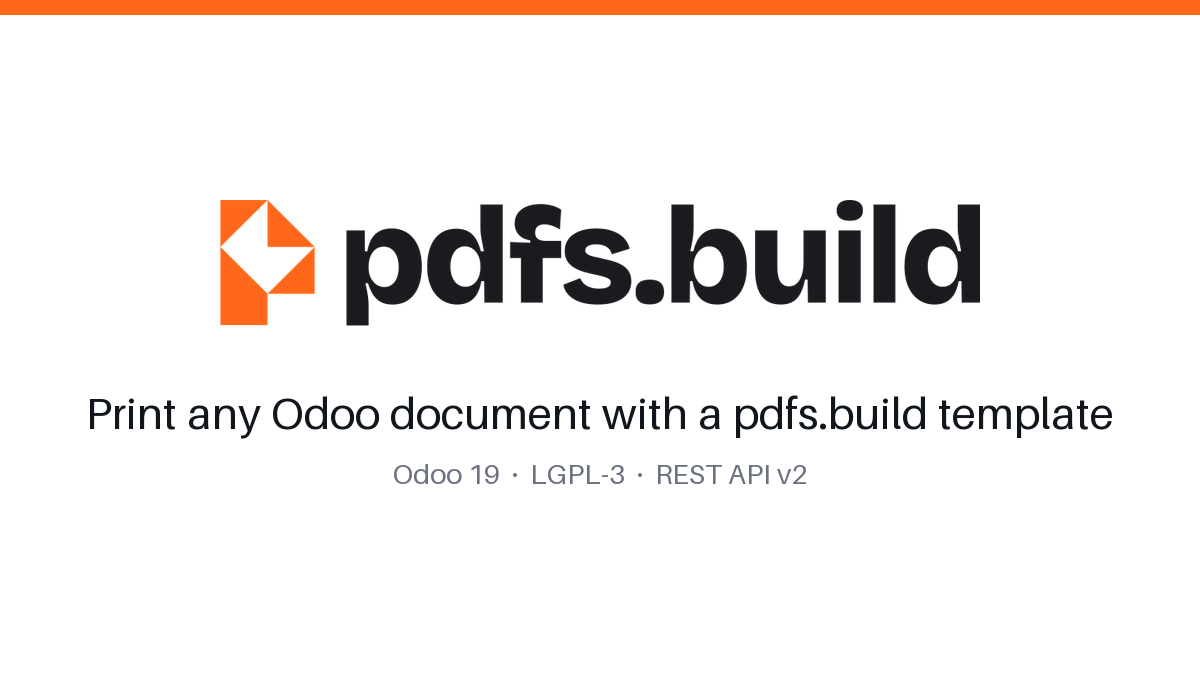
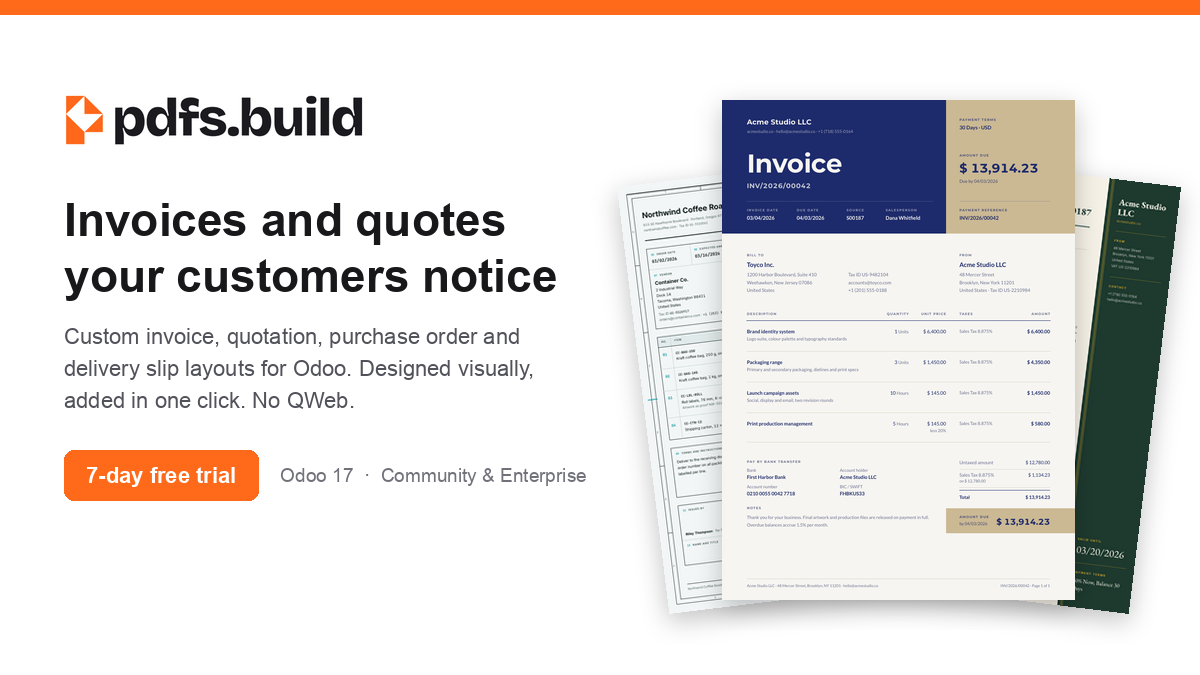
docs(store): listing led by the designs and the free trial, version 17.0.1.3.0
Renamed to "Invoice & Report Designer by pdfs.build" with a summary naming the
documents people search for. The banner and page show the gallery's Odoo
designs (Stub Band, Gilt Edge, Datum Sheet, Dock Ticket) instead of an
unfinished sample invoice and a report form full of Python; the page leads
with the no-code path and a free-trial button, and its features are split for
the business and for administrators.

Changed region(s): [[0.0308, 0.1244, 0.9867, 0.9333], [0.0308, 0.1244, 0.3083, 0.2178]]

diff --git a/pdfs_build/static/description/index.html b/pdfs_build/static/description/index.html
@@ -1,84 +1,105 @@
 <section class="oe_container">
     <div class="oe_row oe_spaced">
-        <h2 class="oe_slogan">pdfs.build PDF Templates</h2>
-        <h3 class="oe_slogan">Print any Odoo document with a template designed on pdfs.build.</h3>
+        <h2 class="oe_slogan">Invoices and quotes your customers notice</h2>
+        <h3 class="oe_slogan">
+            Custom invoice, quotation, purchase order and delivery slip layouts for Odoo,
+            designed visually on pdfs.build. No QWeb, no XML.
+        </h3>
+        <p class="oe_mt16 text-center">
+            <a class="btn btn-primary btn-lg" href="https://app.pdfs.build/signup?plan=pro&amp;interval=monthly" target="_blank">Start the 7-day free trial</a>
+        </p>
+        <p class="text-center text-muted">API included in the trial. Plans from $19 a month after it.</p>
         <div class="oe_span6">
-            <img src="screenshot_print.png" class="oe_picture oe_screenshot" alt="The report in a Sales Order's Print menu"/>
+            <img src="design_invoice.png" class="oe_picture oe_screenshot" alt="An Odoo invoice printed with the Stub Band design"/>
         </div>
         <div class="oe_span6">
-            <img src="screenshot_pdf.png" class="oe_picture oe_screenshot" alt="The quotation rendered by pdfs.build"/>
+            <img src="screenshot_print.png" class="oe_picture oe_screenshot" alt="The same invoice's Print menu in Odoo"/>
+            <p class="oe_mt16">
+                Your design replaces Odoo's own <b>Invoice PDF</b>: the Print button, <b>Send</b> by email,
+                the customer portal and the PDF stored on the invoice all use it. Odoo's e-invoice XML
+                (Factur-X, UBL) is still embedded.
+            </p>
         </div>
     </div>
 </section>
 
 <section class="oe_container oe_dark">
     <div class="oe_row">
-        <h2 class="oe_slogan">Design once, print everywhere</h2>
+        <h2 class="oe_slogan">Ready-made designs, one click, no mapping</h2>
+        <div class="oe_span12">
+            <img src="designs_for_odoo.png" class="oe_picture" alt="Invoice, quotation, purchase order and delivery slip designs for Odoo"/>
+        </div>
         <div class="oe_span6">
             <p class="oe_mt32">
-                pdfs.build is a PDF template engine with an AI-assisted designer. Describe the
-                document you want, refine it with live preview, and it comes with a JSON schema
-                of the data it needs. This module connects those templates to Odoo.
-            </p>
-            <p>
-                A report maps an Odoo model to a template with a short Python expression,
-                then appears in the record's <b>Print</b> menu, in email templates and
-                wherever Odoo prints PDFs. Printing several records merges them.
+                <b>Designs for Odoo</b> lists invoice, quotation, purchase order and delivery slip
+                designs with previews. Click one: it is copied into your pdfs.build organization and its
+                report is created, already reading the right Odoo fields. It takes your company logo
+                and document-layout colors from Odoo's settings.
             </p>
         </div>
         <div class="oe_span6">
-            <img src="screenshot_template_form.png" class="oe_picture oe_screenshot" alt="A synced template with its data fields"/>
+            <p class="oe_mt32">
+                Two designs for each document type, from bold to conservative, and more on
+                <a href="https://pdfs.build/templates/?category=odoo" target="_blank">pdfs.build/templates</a>.
+                Want something else? Describe the document to the pdfs.build AI designer, or edit any
+                design visually with live preview, then print it from Odoo.
+            </p>
         </div>
     </div>
 </section>
 
 <section class="oe_container">
     <div class="oe_row">
-        <h2 class="oe_slogan">Three steps</h2>
+        <h2 class="oe_slogan">Up and running in three steps</h2>
         <div class="oe_span4">
             <h4>1. Connect</h4>
-            <p>Paste your pdfs.build API key and organization ID in Settings and sync the published templates. Archive the ones Odoo does not need.</p>
+            <p>
+                <a href="https://app.pdfs.build/signup?plan=pro&amp;interval=monthly" target="_blank">Start the free trial</a>,
+                create an API key, and paste it with your organization ID in <b>pdfs.build &gt; Settings</b>.
+            </p>
         </div>
         <div class="oe_span4">
-            <h4>2. Map</h4>
-            <p>Click <b>Designs for Odoo</b> and add an invoice, quotation, purchase order or delivery slip design: it is copied into your organization, synced, and its report is created with the data expression already written. Or create a report for any template of yours and finish the pre-generated expression. Preview the data and the PDF, then take over Odoo's own report.</p>
+            <h4>2. Pick a design</h4>
+            <p>Add one from <b>Designs for Odoo</b>, or sync your own templates. Preview the PDF on a real record before going live.</p>
         </div>
         <div class="oe_span4">
             <h4>3. Print</h4>
-            <p>The report is in the model's Print menu. PDFs are rendered by pdfs.build in a few seconds and can be saved as attachments.</p>
-        </div>
-    </div>
-    <div class="oe_row">
-        <div class="oe_span12">
-            <img src="screenshot_report.png" class="oe_picture oe_screenshot" alt="The report form with its data expression and data preview"/>
+            <p>Use it for Odoo's Invoices or Quotation / Order report, or add it as a new entry in the Print menu.</p>
         </div>
     </div>
 </section>
 
 <section class="oe_container oe_dark">
-    <div class="oe_row">
-        <h2 class="oe_slogan">Both sides of the mapping, in the form</h2>
-        <div class="oe_span6">
-            <img src="screenshot_template_fields.png" class="oe_picture oe_screenshot" alt="Template Fields tab: what the template expects"/>
-            <p class="oe_mt16">What the template expects: every field with its type, whether it is required, and its description.</p>
-        </div>
-        <div class="oe_span6">
-            <img src="screenshot_odoo_fields.png" class="oe_picture oe_screenshot" alt="Odoo Fields tab: the model's fields with labels"/>
-            <p class="oe_mt16">The Odoo model's fields with their labels, types and related models, so nobody has to guess a technical field name.</p>
-        </div>
-    </div>
-</section>
-
-<section class="oe_container">
     <div class="oe_row">
         <h2 class="oe_slogan">Preview in Odoo, take over Odoo's own reports</h2>
         <div class="oe_span6">
             <img src="screenshot_preview.png" class="oe_picture oe_screenshot" alt="The rendered PDF previewed inside Odoo"/>
-            <p class="oe_mt16"><b>Preview PDF</b> renders the record you pick and shows the result in Odoo's own PDF viewer, with download and print in its toolbar.</p>
+            <p class="oe_mt16"><b>Preview PDF</b> renders the record you pick and shows it in Odoo's PDF viewer.</p>
         </div>
         <div class="oe_span6">
             <img src="screenshot_takeover.png" class="oe_picture oe_screenshot" alt="Picking one of Odoo's own reports to render with the template"/>
-            <p class="oe_mt16"><b>Use for Existing Report</b> hands Invoices, Quotation / Order or any other Odoo PDF report to a template. Emails, portal downloads and stored invoice PDFs follow.</p>
+            <p class="oe_mt16"><b>Use for Existing Report</b> hands Invoices, Quotation / Order or any other Odoo PDF report to a design. Clear it to go back.</p>
+        </div>
+    </div>
+</section>
+
+<section class="oe_container">
+    <div class="oe_row">
+        <h2 class="oe_slogan">Your own templates, mapped in the form</h2>
+        <div class="oe_span12">
+            <p>
+                For a template of your own, the report's data is written for you from the template's fields:
+                everything that matches an Odoo field, lines and nested records included, is filled in.
+                The rest is a short Python expression, with both sides listed next to it.
+            </p>
+        </div>
+        <div class="oe_span6">
+            <img src="screenshot_template_fields.png" class="oe_picture oe_screenshot" alt="Template Fields tab: what the template expects"/>
+            <p class="oe_mt16">What the template expects: every field with its type and description.</p>
+        </div>
+        <div class="oe_span6">
+            <img src="screenshot_odoo_fields.png" class="oe_picture oe_screenshot" alt="Odoo Fields tab: the model's fields with labels"/>
+            <p class="oe_mt16">The Odoo model's fields with their labels, so nobody guesses a technical name.</p>
         </div>
     </div>
 </section>
@@ -87,23 +108,25 @@
     <div class="oe_row">
         <h2 class="oe_slogan">Features</h2>
         <div class="oe_span6">
+            <h4>For your business</h4>
             <ul>
-                <li>Templates synced from your pdfs.build organization, with their JSON schema and sample data; archive the ones Odoo does not need</li>
-                <li>Data expression written from the schema: every field that matches one of the model's (nested records and lines included) is read automatically, dates, amounts, taxes and images formatted; only fields Odoo does not have are left to fill in</li>
-                <li><b>Designs for Odoo</b>: ready-made invoice, quotation, purchase order and delivery slip designs, added from inside Odoo in one click with their report created, no mapping at all; they take the company logo and document-layout colours from Odoo's settings</li>
-                <li>Preview Data and an in-app PDF preview on every report</li>
-                <li>Replace Odoo's own Invoices or Quotation / Order PDF with a template: email attachments, portal downloads and stored invoice PDFs follow, and Odoo's e-invoice XML embedding still applies</li>
-                <li>Reports in the Print menu, in email templates, and merged when printing several records</li>
-                <li>Save as attachment and reload from attachment, like any Odoo report</li>
-                <li>Pin a template version or channel per report</li>
+                <li>Invoices, quotations, purchase orders, delivery slips, or any other Odoo document</li>
+                <li>Each document in its customer's language: translated fields, dates and amounts</li>
+                <li>Email attachments, portal downloads and stored invoice PDFs use your design</li>
+                <li>Odoo's e-invoice XML embedding (Factur-X, UBL) still applies</li>
+                <li>Keeps invoices going out: a replaced Odoo report falls back to Odoo's layout if pdfs.build cannot render</li>
+                <li>Print many records at once: rendered in parallel and merged into one PDF</li>
             </ul>
         </div>
         <div class="oe_span6">
+            <h4>For administrators</h4>
             <ul>
-                <li>Helpers for images, dates and amounts; empty fields fitted to the schema automatically</li>
-                <li>Validation and compilation errors from pdfs.build shown to the user with the field or line concerned</li>
-                <li>Odoo 17, Community and Enterprise, no extra Python packages</li>
-                <li>Free and open source (LGPL-3)</li>
+                <li>Preview the data and the PDF on any record before going live</li>
+                <li>The data mapping is written for you from the template's fields; helpers for images, dates, amounts and taxes</li>
+                <li>Errors from pdfs.build shown with the field or line concerned</li>
+                <li>Pin a template version per report, so design changes never break printing</li>
+                <li>Save as attachment and reload from attachment, like any Odoo report</li>
+                <li>Odoo 17, Community and Enterprise; free and open source (LGPL-3)</li>
             </ul>
         </div>
     </div>
@@ -114,10 +137,15 @@
         <h2 class="oe_slogan">What you need</h2>
         <div class="oe_span12">
             <p>
-                This module uses the external service pdfs.build. You need a pdfs.build account on the
-                Starter plan or higher (the Free plan has no API access) and at least one published template.
-                Every print sends the data produced by the report's expression, together with your API key,
-                to api.pdfs.build. Nothing else leaves your Odoo. Render logs on pdfs.build keep the data
+                This module uses the external service pdfs.build. You need a pdfs.build account with API
+                access and at least one published template, or a design added from <b>Designs for Odoo</b>.
+                New accounts start with a
+                <a href="https://app.pdfs.build/signup?plan=pro&amp;interval=monthly" target="_blank">7-day free trial</a>
+                that includes the API; plans start at $19 a month after it.
+            </p>
+            <p>
+                Every print sends the data produced by the report, together with your API key, to
+                api.pdfs.build. Nothing else leaves your Odoo. Render logs on pdfs.build keep the data
                 payload for your audit trail.
             </p>
             <p>Questions: <a href="mailto:hello@pdfs.build">hello@pdfs.build</a></p>

diff --git a/pdfs_build/__manifest__.py b/pdfs_build/__manifest__.py
@@ -1,28 +1,32 @@
 {
-    "name": "pdfs.build PDF Templates",
-    "summary": "Print any Odoo document with a template designed on pdfs.build",
+    "name": "Invoice & Report Designer by pdfs.build",
+    "summary": "Custom invoice, quotation, purchase order and delivery slip layouts, designed visually. No QWeb.",
     "description": """
-Print quotations, invoices, delivery slips, certificates or any other Odoo
+Print invoices, quotations, purchase orders, delivery slips or any other Odoo
 record with a template designed on pdfs.build, instead of a QWeb layout.
 
-1. Enter your pdfs.build API key and organization ID in Settings.
-2. Sync the published templates into Odoo.
-3. For each template, create a report: pick the Odoo model and write the
-   Python expression that turns a record into the template's data. Or click
-   Designs for Odoo: the gallery's Odoo designs are named after Odoo's
-   fields, and one click adds the design, syncs it and creates its report.
-4. The report appears in the record's Print menu, in email templates and
-   everywhere else Odoo prints PDFs. Printing several records merges the PDFs.
+1. Enter your pdfs.build API key and organization ID under pdfs.build > Settings.
+2. Click Designs for Odoo and add a ready-made design: it is copied into your
+   organization and its report is created, with no mapping to write. Or sync
+   your own templates and create a report for each: pick the Odoo model, and
+   the data expression is written from the template's fields.
+3. The report appears in the record's Print menu, in email templates and
+   everywhere else Odoo prints PDFs, or replaces one of Odoo's own reports.
+   Printing several records merges the PDFs.
 
-This module sends the data produced by your expression, together with your
-API key, to the pdfs.build API (api.pdfs.build) every time a report is printed.
-Rendering over the API needs a pdfs.build Starter plan or higher.
+Each record prints in its partner's language. A report that replaces one of
+Odoo's own falls back to Odoo's layout when pdfs.build cannot render.
+
+This module sends the data produced by the report, together with your API key,
+to the pdfs.build API (api.pdfs.build) every time a report is printed. New
+pdfs.build accounts start with a 7-day free trial that includes the API; plans
+start at $19 a month after it.
 """,
     "author": "pdfs.build",
     "website": "https://pdfs.build",
     "support": "hello@pdfs.build",
     "category": "Productivity",
-    "version": "17.0.1.2.0",
+    "version": "17.0.1.3.0",
     "license": "LGPL-3",
     "depends": ["base", "web"],
     "external_dependencies": {"python": ["requests"]},
